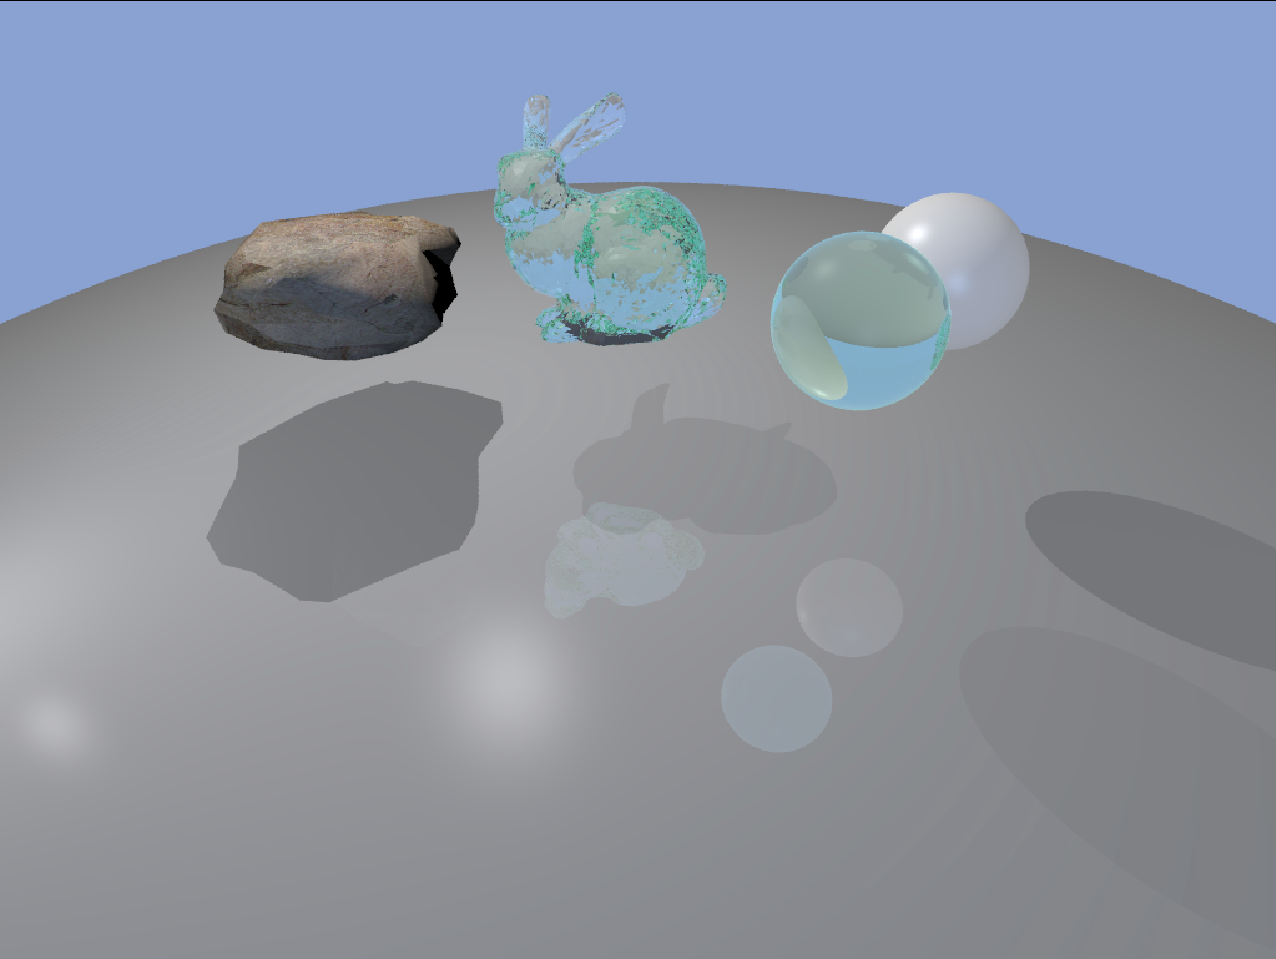
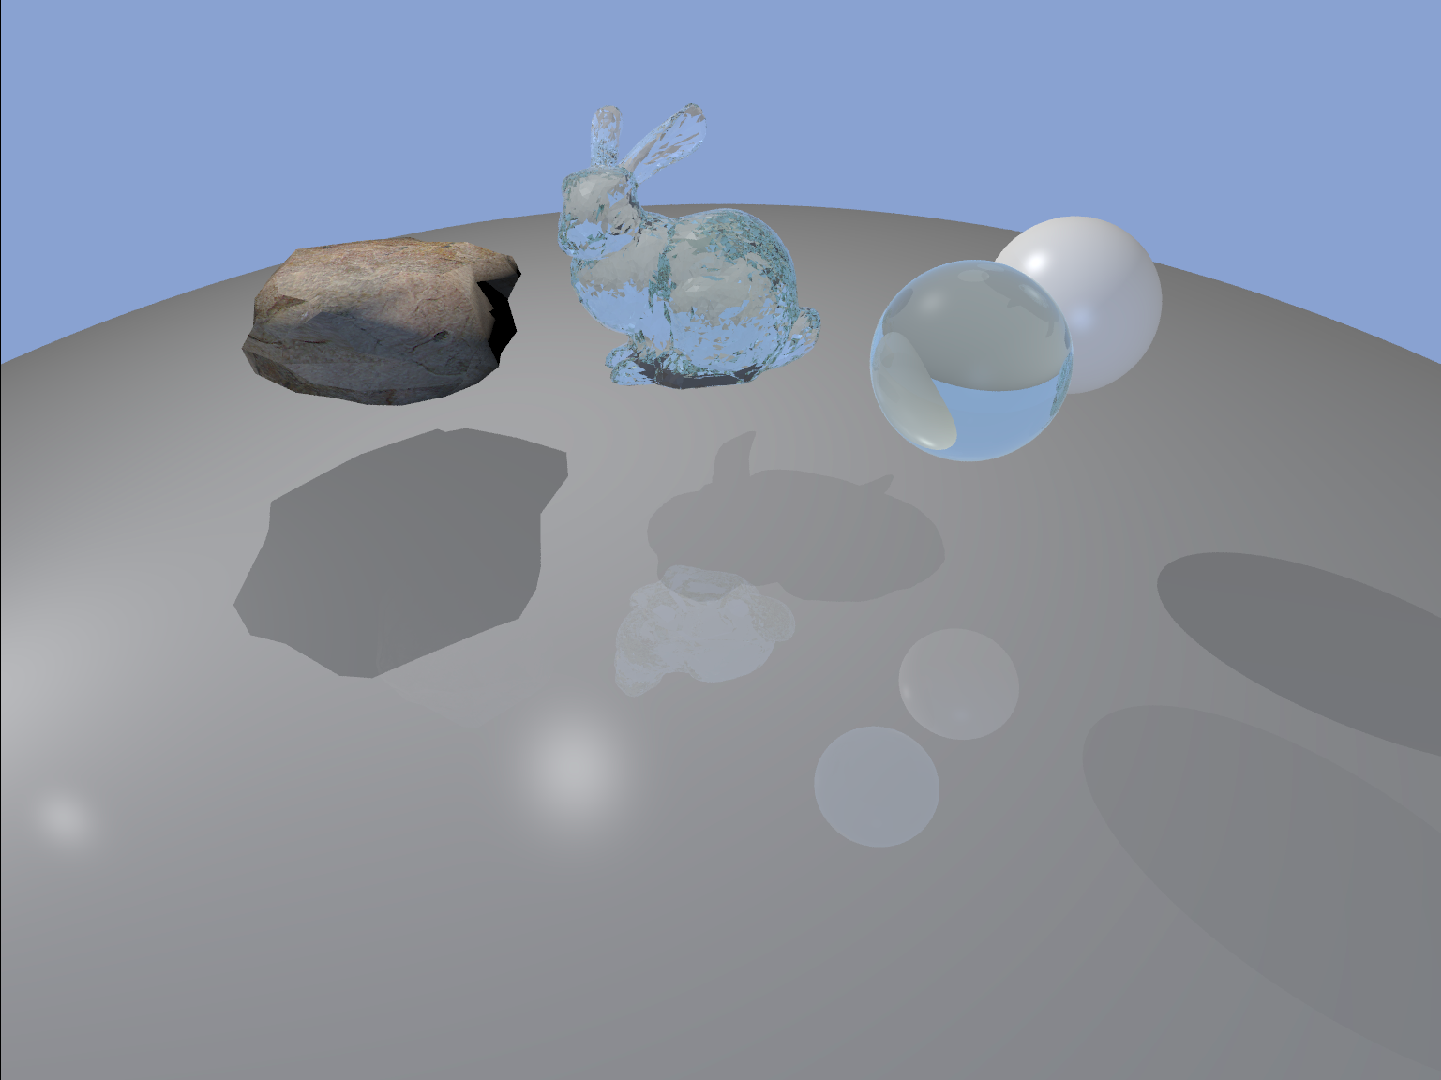
update readme

diff --git a/src/main.cpp b/src/main.cpp
@@ -9,9 +9,7 @@
 #include <memory>
 #include "config.h"
 #include "mtl_loader.hpp"
-#include <ctime>
 #include "obj_loader.hpp"
-#include "easy_random.hpp"
 #include "../dep/lodepng/lodepng.h"
 
 using Vec3 = Eigen::Vector3d;
@@ -34,152 +32,6 @@ CameraPtr initCamera()
     return camera;
 }
 
-void setSceneSphere(Scene &scene)
-{
-    MtlLoader mtlLoader("../res/model/model.mtl");
-    mtlLoader.materials()[3]->setKm(mtlLoader.materials()[3]->ks() * 2.0);
-
-    ObjPtr sphere1 = std::make_shared<Shpere>(Vec3{2.0, -2.0, -8.0}, 1.0);
-    ObjPtr sphere2 = std::make_shared<Shpere>(Vec3{-3.0, 2.0, -10.0}, 2.0);
-    ObjPtr sphere3 = std::make_shared<Shpere>(Vec3{2.0, 2.0, -10.0}, 1.0);
-    ObjPtr sphere4 = std::make_shared<Shpere>(Vec3{-2.0, -2.0, -10.0}, 2.0);
-    ObjPtr sphere5 = std::make_shared<Shpere>(Vec3{-0.0, -51.0, -10.0}, 45.0);
-    sphere1->setMaterial(mtlLoader.materials()[0]);
-    sphere2->setMaterial(mtlLoader.materials()[1]);
-    sphere3->setMaterial(mtlLoader.materials()[2]);
-    sphere4->setMaterial(mtlLoader.materials()[3]);
-    sphere5->setMaterial(mtlLoader.materials()[3]);
-    scene.addObject(sphere1);
-    scene.addObject(sphere2);
-    scene.addObject(sphere3);
-    scene.addObject(sphere4);
-    scene.addObject(sphere5);
-
-    LightPtr light1 = std::make_shared<PointLight>(Vec3{23.0, 23.0, 23.0}, Vec3{0.0, 0.0, 0.0});
-    LightPtr light2 = std::make_shared<AmbientLight>(Vec3{0.25, 0.25, 0.25});
-    LightPtr light3 = std::make_shared<ParallelLight>(BG_COLOR * 0.5, Vec3{0.0, -1.0, 0.0});
-    scene.addLight(light1);
-    scene.addLight(light2);
-    // scene.addLight(light3);
-}
-
-void setSceneTriangle(Scene &scene)
-{
-    MtlLoader mtlLoader("../res/model/model.mtl");
-    mtlLoader.materials()[3]->setKm(mtlLoader.materials()[3]->ks() * 2.0);
-
-    ObjPtr triangle1 = std::make_shared<Triangle>(Vec3{-2.0, 0.0, -10.0}, Vec3{2.0, 0.0, -10.0}, Vec3{0.0, 2.0, -8.0});
-    ObjPtr triangle2 = std::make_shared<Triangle>(Vec3{-2.0, -3.0, -8.0}, Vec3{1.0, -5.0, -10.0}, Vec3{0.0, 2.0, -4.0});
-    ObjPtr sphere1 = std::make_shared<Shpere>(Vec3{2.0, -2.0, -8.0}, 1.0);
-    ObjPtr sphere5 = std::make_shared<Shpere>(Vec3{-0.0, -51.0, -10.0}, 45.0);
-
-    triangle1->setMaterial(mtlLoader.materials()[3]);
-    triangle2->setMaterial(mtlLoader.materials()[3]);
-    sphere1->setMaterial(mtlLoader.materials()[0]);
-    sphere5->setMaterial(mtlLoader.materials()[3]);
-
-    scene.addObject(triangle1);
-    scene.addObject(triangle2);
-    scene.addObject(sphere1);
-    scene.addObject(sphere5);
-
-    LightPtr light1 = std::make_shared<PointLight>(Vec3{23.0, 23.0, 23.0}, Vec3{0.0, 0.0, 0.0});
-    LightPtr light2 = std::make_shared<AmbientLight>(Vec3{0.25, 0.25, 0.25});
-    LightPtr light3 = std::make_shared<ParallelLight>(BG_COLOR * 0.5, Vec3{0.0, -1.0, 0.0});
-    scene.addLight(light1);
-    scene.addLight(light2);
-    scene.addLight(light3);
-}
-
-void setSceneMesh(Scene &scene)
-{
-    MtlLoader mtlLoader("../res/model/model.mtl");
-    // mtlLoader.materials()[3]->setKm(mtlLoader.materials()[3]->ks() * 1.0);
-    mtlLoader.materials()[1]->setKf(1.1);
-    mtlLoader.materials()[1]->setAttenuateCoeff(Vec3{0.9, 0.95, 0.9});
-    mtlLoader.materials()[1]->setKa(Vec3{0.1, 0.1, 0.1});
-    mtlLoader.materials()[1]->setKd(Vec3{0.1, 0.1, 0.1});
-    mtlLoader.materials()[1]->setKs(Vec3{0.2, 0.2, 0.2});
-
-    ObjLoader loader;
-    // ObjPtr tri = loader.load("../res/model/teapot.obj");
-    ObjPtr tri = loader.load("../res/models/bunny/bunny.obj");
-    ObjPtr sphere1 = std::make_shared<Shpere>(Vec3{1.0, 2.0, -4.0}, 1.0);
-    ObjPtr sphere5 = std::make_shared<Shpere>(Vec3{-0.0, -48.0, -10.0}, 45.0);
-
-    tri->setMaterial(mtlLoader.materials()[1]);
-    tri->transform(Vec3::Ones(), Vec3::Zero(), Vec3{0.0, 1.0, 0.0});
-    sphere1->setMaterial(mtlLoader.materials()[3]);
-    sphere5->setMaterial(mtlLoader.materials()[3]);
-
-    scene.addObject(tri);
-    scene.addObject(sphere1);
-    scene.addObject(sphere5);
-
-    LightPtr light1 = std::make_shared<PointLight>(Vec3{50.0, 50.0, 50.0}, Vec3{-10.0, 10.0, 2.0});
-    LightPtr light2 = std::make_shared<AmbientLight>(Vec3{0.25, 0.25, 0.25});
-    LightPtr light3 = std::make_shared<ParallelLight>(BG_COLOR * 0.2f, Vec3{0.0, -1.0, 0.0});
-    scene.addLight(light1);
-    scene.addLight(light2);
-    scene.addLight(light3);
-}
-
-void setSceneTransparent(Scene &scene)
-{
-    MtlLoader mtlLoader("../res/model/model.mtl");
-    mtlLoader.materials()[3]->setKm(mtlLoader.materials()[3]->ks() * 2.0);
-    mtlLoader.materials()[1]->setKf(1.6f);
-    mtlLoader.materials()[1]->setAttenuateCoeff(Vec3{0.9f, 1.0, 0.9f});
-    mtlLoader.materials()[1]->setKa(Vec3{0.1f, 0.1f, 0.1f});
-    mtlLoader.materials()[1]->setKd(Vec3{0.1f, 0.1f, 0.1f});
-    mtlLoader.materials()[1]->setKs(Vec3{0.2f, 0.2f, 0.2f});
-
-    ObjPtr sphere1 = std::make_shared<Shpere>(Vec3{4.0, 1.0, 3.0}, 1.0);
-    ObjPtr sphere5 = std::make_shared<Shpere>(Vec3{-0.0, -48.0, -10.0}, 45.0);
-
-    sphere1->setMaterial(mtlLoader.materials()[1]);
-    sphere5->setMaterial(mtlLoader.materials()[3]);
-
-    scene.addObject(sphere1);
-    scene.addObject(sphere5);
-
-    LightPtr light1 = std::make_shared<PointLight>(Vec3{23.0, 23.0, 23.0}, Vec3{0.0, 0.0, 10.0});
-    LightPtr light2 = std::make_shared<AmbientLight>(Vec3{0.25, 0.25, 0.25});
-    LightPtr light3 = std::make_shared<ParallelLight>(BG_COLOR * 0.5, Vec3{0.0, -1.0, 0.0});
-    scene.addLight(light1);
-    scene.addLight(light2);
-    scene.addLight(light3);
-}
-
-void setSceneTexture(Scene &scene)
-{
-    MtlLoader mtlLoader("../res/model/model.mtl");
-    std::shared_ptr<Texture> tex = std::make_shared<Texture>("../res/models/rock/rock.png");
-    ObjLoader loader;
-    ObjPtr rock = loader.load("../res/models/rock/rock.obj");
-
-    mtlLoader.materials()[3]->setKm(mtlLoader.materials()[3]->ks() * 2.0);
-
-    ObjPtr sphere1 = std::make_shared<Shpere>(Vec3{4.0, 1.0, 3.0}, 1.0);
-    ObjPtr sphere5 = std::make_shared<Shpere>(Vec3{-0.0, -48.0, -10.0}, 45.0);
-
-    sphere1->setMaterial(mtlLoader.materials()[1]);
-    sphere5->setMaterial(mtlLoader.materials()[3]);
-    rock->setMaterial(mtlLoader.materials()[1]);
-    rock->setTexture(tex);
-
-    scene.addObject(sphere1);
-    scene.addObject(sphere5);
-    scene.addObject(rock);
-
-    LightPtr light1 = std::make_shared<PointLight>(Vec3{23.0, 23.0, 23.0}, Vec3{0.0, 0.0, 10.0});
-    LightPtr light2 = std::make_shared<AmbientLight>(Vec3{0.25, 0.25, 0.25});
-    LightPtr light3 = std::make_shared<ParallelLight>(BG_COLOR * 0.5, Vec3{0.0, -1.0, 0.0});
-    scene.addLight(light1);
-    scene.addLight(light2);
-    scene.addLight(light3);
-}
-
 void setTestScene(Scene &scene)
 {
     // load material and texture
@@ -196,18 +48,15 @@ void setTestScene(Scene &scene)
     ObjPtr mirrorSphere = std::make_shared<Shpere>(Vec3{-0.0, -46.0, -10.0}, 45.0);
 
     // Set ideal mirror reflection material
-    // mtlLoader.materials()[3]->setKs(Vec3{1.0,1.0,1.0});
     mtlLoader.materials()[3]->setKm(mtlLoader.materials()[3]->ks()*1.5);
-    mtlLoader.materials()[3]->setNe(300.0);
+    mtlLoader.materials()[3]->setNe(600.0);
     mtlLoader.materials()[3]->setKd(Vec3{0.6,0.6,0.6});
     mtlLoader.materials()[3]->setKa(Vec3{0.6,0.6,0.6});
     mtlLoader.materials()[3]->setKs(Vec3{0.8,0.8,0.8});
 
-    
-
     // Set transparent material
     mtlLoader.materials()[1]->setKf(1.6f);
-    mtlLoader.materials()[1]->setAttenuateCoeff(Vec3{0.9f, 0.98, 0.9f});
+    mtlLoader.materials()[1]->setAttenuateCoeff(Vec3{0.9f, 0.93, 0.9f});
     mtlLoader.materials()[1]->setKa(Vec3{0.1f, 0.1f, 0.1f});
     mtlLoader.materials()[1]->setKd(Vec3{0.1f, 0.1f, 0.1f});
     mtlLoader.materials()[1]->setKs(Vec3{0.2f, 0.2f, 0.2f});
@@ -235,12 +84,19 @@ void setTestScene(Scene &scene)
 
     // Set lights
     LightPtr light1 = std::make_shared<PointLight>(Vec3{50.0, 50.0, 50.0}, Vec3{-4.0, 10.0, 0.0});
+    // for(int i=0;i<8;i++)
+    // {
+    //     LightPtr areaLight = std::make_shared<AreaLight>(Vec3{15.0,15.0,15.0},Vec3{0.0,10.0,0.0},Vec3{1.0,0.0,0.0},Vec3{0.0,1.0,0.0});
+    //     scene.addLight(areaLight);
+    // }
+    // LightPtr areaLight = std::make_shared<AreaLight>(Vec3{180.0,180.0,180.0},Vec3{0.0,10.0,0.0},Vec3{1.0,0.0,0.0},Vec3{0.0,1.0,0.0});
     LightPtr light2 = std::make_shared<AmbientLight>(Vec3{0.28, 0.28, 0.28});
     LightPtr light3 = std::make_shared<ParallelLight>(BG_COLOR * 0.3, Vec3{0.0, 0.0, -1.0});
     LightPtr light4 = std::make_shared<PointLight>(Vec3{3.0, 3.0, 3.0}, Vec3{-10.0, -1.0, 3.0});
 
     // Add lights to scene
     scene.addLight(light1);
+    // scene.addLight(areaLight);
     scene.addLight(light2);
     scene.addLight(light3);
     scene.addLight(light4);

diff --git a/src/shader.hpp b/src/shader.hpp
@@ -136,21 +136,23 @@ public:
             if (L.norm() < 0.01) // ambient
                 color += _ambient(ka, I);
             else
-            {
-                double at=1.0;
-                Ray shadowRay(intersection.pos, L);
-                Intersection shadowInter=_scene->intersect(shadowRay);
-                if (shadowInter.happen)
+                for(int i=0;i<MULTI_SHADOW_RAY;i++)
                 {
-                    if(shadowInter.mtl->kf()>1.0)
-                        at/=pow(shadowInter.mtl->kf(),0.8);
-                    else
-                        continue;
+                    double at=1.0;
+                    Ray shadowRay(intersection.pos, L);
+                    Intersection shadowInter=_scene->intersect(shadowRay);
+                    if (shadowInter.happen)
+                    {
+                        if(shadowInter.mtl->kf()>1.0)
+                            at/=pow(shadowInter.mtl->kf(),0.8);
+                        else
+                            continue;
+                    }
+
+                    color += at*_diffuse(kd, I, N, L)/MULTI_SHADOW_RAY; // diffuse term
+                    color += at*_specular(ks, I, N, L, V, p)/MULTI_SHADOW_RAY;
                 }
 
-                color += at*_diffuse(kd, I, N, L); // diffuse term
-                color += at*_specular(ks, I, N, L, V, p);
-            }
         }
 
         //manage reflection and refraction

diff --git a/src/light.hpp b/src/light.hpp
@@ -1,5 +1,6 @@
 #pragma once
 #include <eigen3/Eigen/Core>
+#include "easy_random.hpp"
 
 class Light
 {
@@ -65,5 +66,29 @@ public:
     {
         intensity = _intensity;
         dir = -_dir;
+    }
+};
+
+class AreaLight : public Light
+{
+    using Vec3 = Eigen::Vector3d;
+
+private:
+    Vec3 _intensity = {2.0, 2.0, 2.0};
+    Vec3 _center = Vec3::Zero();
+    Vec3 _a;
+    Vec3 _b;
+
+public:
+    AreaLight(const Vec3 &intensity, const Vec3 &center, const Vec3 &a, const Vec3 &b) : _intensity(intensity), _center(center), _a(a), _b(b){};
+
+public:
+    void idAt(const Vec3 &pos, Vec3 &intensity, Vec3 &dir) const override
+    {
+        Vec3 samplePos = _center + easyUniform() * _a + easyUniform() * _b;
+        dir = samplePos - pos;
+        double r = dir.norm();
+        dir /= r;
+        intensity = _intensity / r / r;
     }
 };

diff --git a/src/config.h b/src/config.h
@@ -2,7 +2,7 @@
 #include <eigen3/Eigen/Core>
 
 #define MULTI_THREAD
-#define NUM_THREADS 6
+#define NUM_THREADS 16
 
 // const Eigen::Vector3d CAMERA_POS = {0.0f, 0.0f, 10.0f};
 // const Eigen::Vector3d CAMERA_LOOKAT = {0.0f, 0.0f, -1.0f};
@@ -16,10 +16,12 @@ const Eigen::Vector3d CAMERA_LOOKAT = {0.0, -0.5, -1.0};
 const Eigen::Vector3d CAMERA_UP = {0.0, 1.0, -0.5};
 
 const Eigen::Vector3d BG_COLOR = {0.27, 0.4, 0.65};
-const int FILM_HEIGHT = 768;
-const int FILM_WIDTH = 1024;
+const int FILM_HEIGHT = 1152;
+const int FILM_WIDTH = 1536;
 const double CAMERA_FOCAL_LENGTH = 1.0f;
 const double CAMERA_HFOV = 60.0f;
 const double CAMERA_ASPECT_RATIO = (double)FILM_WIDTH / FILM_HEIGHT;
+
+int MULTI_SHADOW_RAY = 1;
 
 const int MAX_BOUNCE = 10;

diff --git a/Readme.md b/Readme.md
@@ -1,17 +1,27 @@
 # ShabbyRenderer  
 
-![avatar](img/preview.png)
+![avatar](img/composited_area_light.png)  
+<p>
+    <img width="360" alt="Example 1" src="img/multi_shadow_ray.png"/>
+    <img width="360" alt="Example 2" src="img/preview.png"/>
+</p>
+
+
 
 This repository contains a trivial implementation of pure-CPU ray tracer, which supports some basic features: 
 * Simple loaders for materials and triangular-meshes    
+* Simple ppm writer
 * Anti-aliasing(via stratified sampling)  
 * Texture mapping
+* BVH accelerated ray-object intersection
 * Transparent material  
 * Ideal mirror reflection  
-* Hard shadow
+* Hard shadow for point light
+* Soft shadow for area light
+* Blurred soft shadow for composited area light
 * Parallel rendering(using openMP)
-* Orthogonal camera & perspective camera
-* Parallel lighting
+* Orthogonal camera available too
+* Supports point light, area light, parallel light, ambient light
 
 ## How To Build  
 
@@ -24,7 +34,7 @@ sudo apt update
 sudo apt install libeigen3-dev
 ```
 
-2. Get dependencies(lodepng, a png loader)  
+2. Get dependencies(lodepng, a png loader to load png texture)  
 ```bash
 cd 'project dir'
 git submodule init
@@ -45,4 +55,3 @@ make
 cd build
 ./ShabbyRenderer
 ```
-It takes about 170 seconds to render the 1024x768 preview image on i5-8300H CPU @ 2.30GHz × 8.  
